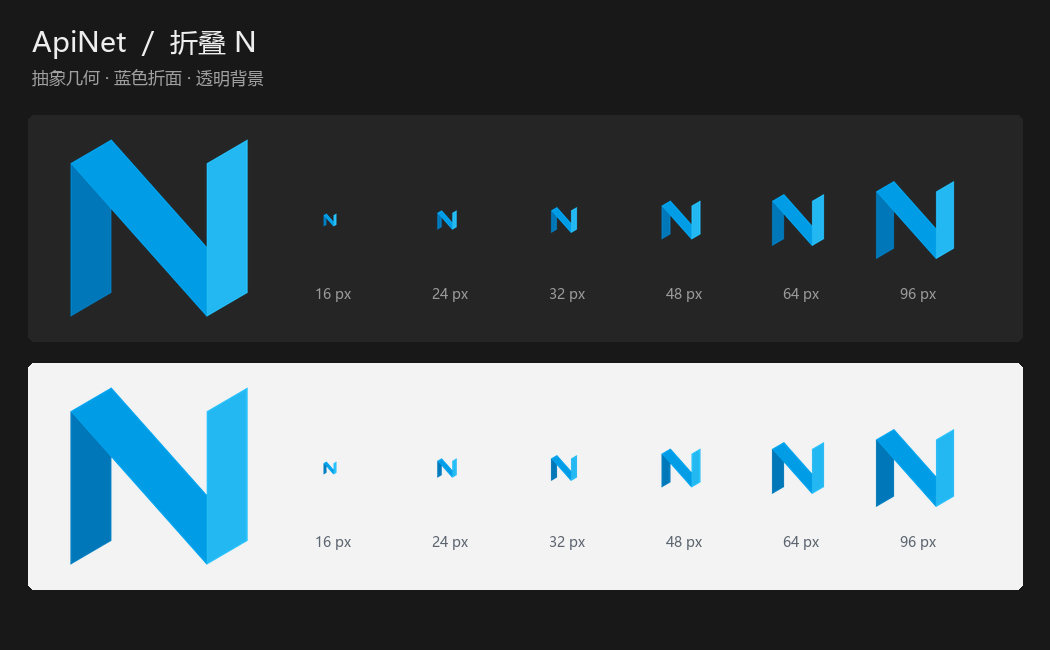
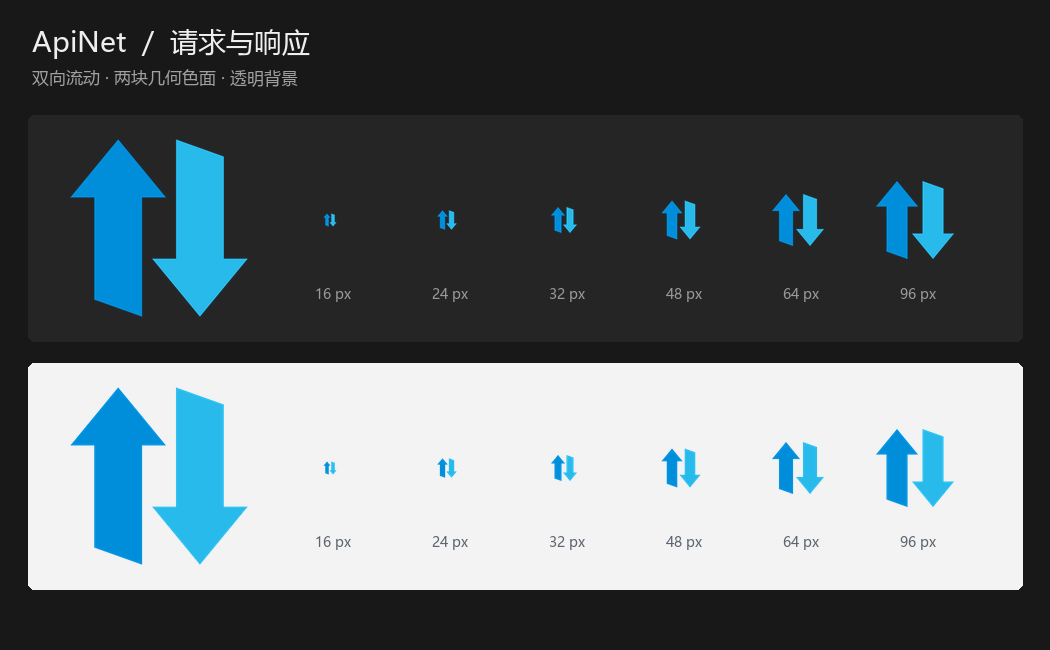
Use an abstract duplex mark for requests and responses

diff --git a/scripts/generate-icons.py b/scripts/generate-icons.py
@@ -1,4 +1,4 @@
-"""Generate ApiNet's folded N as SVG, transparent PNG and ICO (Python 3 + Pillow)."""
+"""Generate ApiNet's duplex mark as SVG, transparent PNG and ICO (Python 3 + Pillow)."""
 from pathlib import Path
 from PIL import Image, ImageDraw
 
@@ -6,12 +6,11 @@ ROOT = Path(__file__).resolve().parent.parent
 ASSETS = ROOT / "src" / "ApiNet.UI" / "Assets"
 SCALE = 4
 
-# Three joined ribbon faces form Net's initial. Use shared geometry for all
-# exports; the surrounding space and the openings remain genuinely transparent.
+# Opposing geometric arrows represent outgoing requests and incoming responses.
+# Use shared geometry for every export and preserve the transparent background.
 PANELS = [
-    ("#0077B8", [(48, 104), (144, 48), (144, 408), (48, 464)]),
-    ("#009DE6", [(48, 104), (144, 48), (464, 408), (368, 464)]),
-    ("#23B8F2", [(368, 104), (464, 48), (464, 408), (368, 464)]),
+    ("#008EDB", [(104, 424), (104, 184), (48, 184), (160, 48), (272, 184), (216, 184), (216, 464)]),
+    ("#28BAEB", [(296, 48), (408, 88), (408, 328), (464, 328), (352, 464), (240, 328), (296, 328)]),
 ]
 
 
@@ -20,7 +19,7 @@ def generate():
     draw = ImageDraw.Draw(canvas)
     svg = [
         '<svg xmlns="http://www.w3.org/2000/svg" width="512" height="512" viewBox="0 0 512 512">',
-        '  <title>ApiNet Folded N</title>',
+        '  <title>ApiNet Duplex</title>',
     ]
     for color, points in PANELS:
         draw.polygon([(x * SCALE, y * SCALE) for x, y in points], fill=color)
@@ -32,7 +31,7 @@ def generate():
     icon.save(ASSETS / "app.png")
     icon.save(ASSETS / "app.ico", sizes=[(n, n) for n in (16, 20, 24, 32, 40, 48, 64, 128, 256)])
     assert icon.getpixel((0, 0))[3] == 0
-    print("Generated folded N SVG, 1024px transparent PNG and nine-size ICO.")
+    print("Generated duplex SVG, 1024px transparent PNG and nine-size ICO.")
 
 
 if __name__ == "__main__":

diff --git a/README.md b/README.md
@@ -267,6 +267,6 @@ tests/ApiNet.Desktop.Tests  MVVM 交互及 XAML 渲染测试
 
 窗口只组合视图，功能按目录拆分；MainWindowViewModel 的协调命令按 Workspace、History、Capture、OpenApi、Documents、Updates 分文件，工具与设置使用独立 View/ViewModel，深浅主题色集中在 ThemePalette.axaml。各请求 Tab 维护自己的状态，网络与存储实现不依赖 Avalonia。
 
-Logo 采用 VS Code 风格的抽象几何折带：三块蓝色折面组成 Net 的首字母 N，使用透明背景和清晰轮廓，适配任务栏小尺寸。提供 SVG、1024 px PNG 和九种尺寸 ICO，窗口、任务栏、托盘、启动器和安装包共用图标；macOS 打包时由同一 PNG 生成 ICNS。Windows 安装和首次启动新版本时会通知 Shell 刷新本应用的图标缓存。侧栏采用固定尺寸矢量图标，避免字体符号首次绘制时缺失或裁切。修改 Logo 后可用 `python scripts/generate-icons.py` 重新生成（需要 Python 3 和 Pillow）。
+Logo 以双向数据流表达网络调试功能：深蓝向上箭形代表发送请求，浅蓝向下箭形代表接收响应，两块相向的几何色面组成标志。使用透明背景和清晰轮廓，适配任务栏小尺寸，也呼应 WebSocket 与代理抓包中的双向通信。提供 SVG、1024 px PNG 和九种尺寸 ICO，窗口、任务栏、托盘、启动器和安装包共用图标；macOS 打包时由同一 PNG 生成 ICNS。Windows 安装和首次启动新版本时会通知 Shell 刷新本应用的图标缓存。侧栏采用固定尺寸矢量图标，避免字体符号首次绘制时缺失或裁切。修改 Logo 后可用 `python scripts/generate-icons.py` 重新生成（需要 Python 3 和 Pillow）。
 
-![折叠 N 图标与小尺寸预览](docs/images/icon-sizes.png)
+![双向数据流图标与小尺寸预览](docs/images/icon-sizes.png)

diff --git a/docs/RELEASE-NOTES.md b/docs/RELEASE-NOTES.md
@@ -1,6 +1,6 @@
-ApiNet 0.1.16：换用简洁的蓝色几何图标。
+ApiNet 0.1.16：用双向数据流图标突出网络调试功能。
 
-- 新 Logo 采用 VS Code 风格的抽象折带，三块蓝色折面组成 Net 的首字母 N，轮廓清晰。
+- 新 Logo 采用两块相向流动的蓝色箭形，分别表达发送请求与接收响应，呼应 HTTP、WebSocket 和代理抓包中的双向通信。
 - 图标使用透明背景，调整图形占比，让任务栏、托盘和应用内小尺寸图标更容易辨认。
 - 统一替换应用内 Logo、窗口、任务栏、系统托盘、启动器和 Windows 安装包图标；macOS 应用与 Linux 包使用同一来源。
 - 提供 SVG、1024 px PNG 和 16–256 px 的九种尺寸 ICO；Windows 安装和新版本首次启动会通知 Shell 刷新本应用图标。
